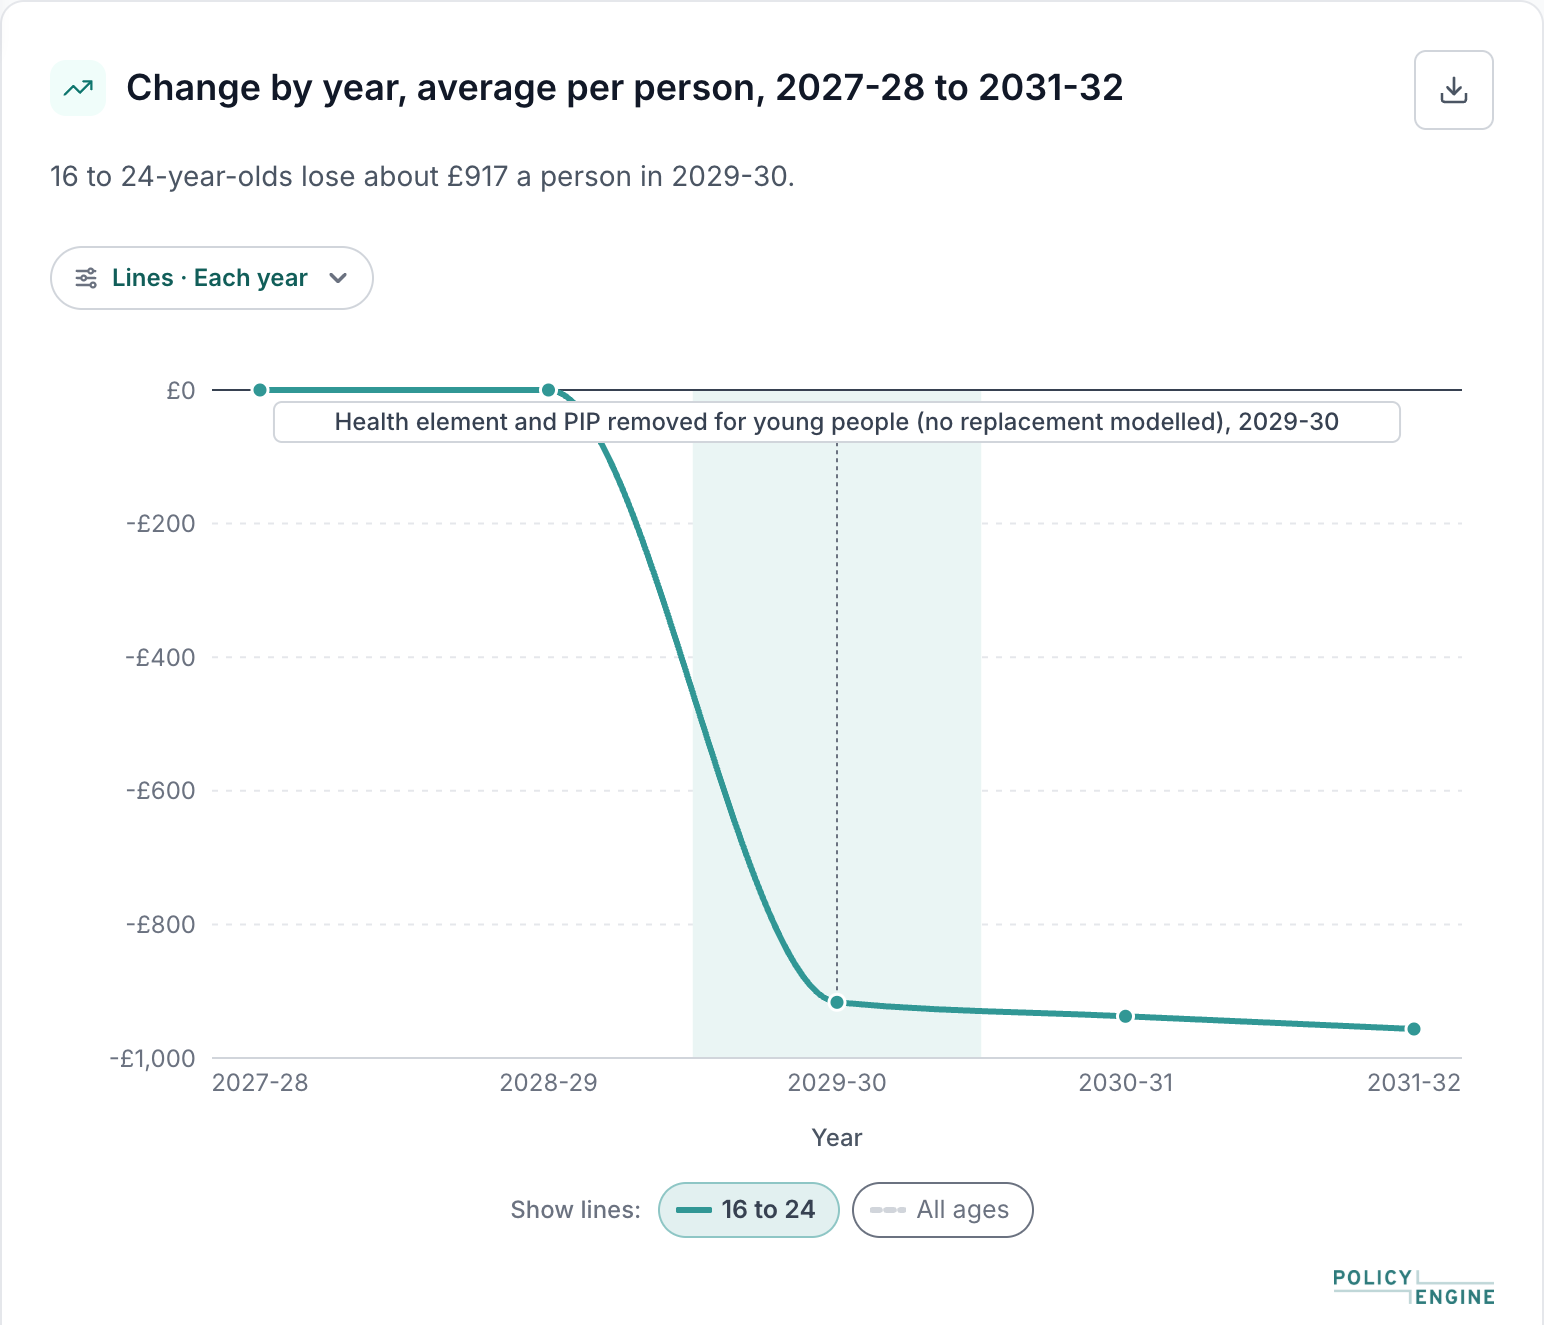
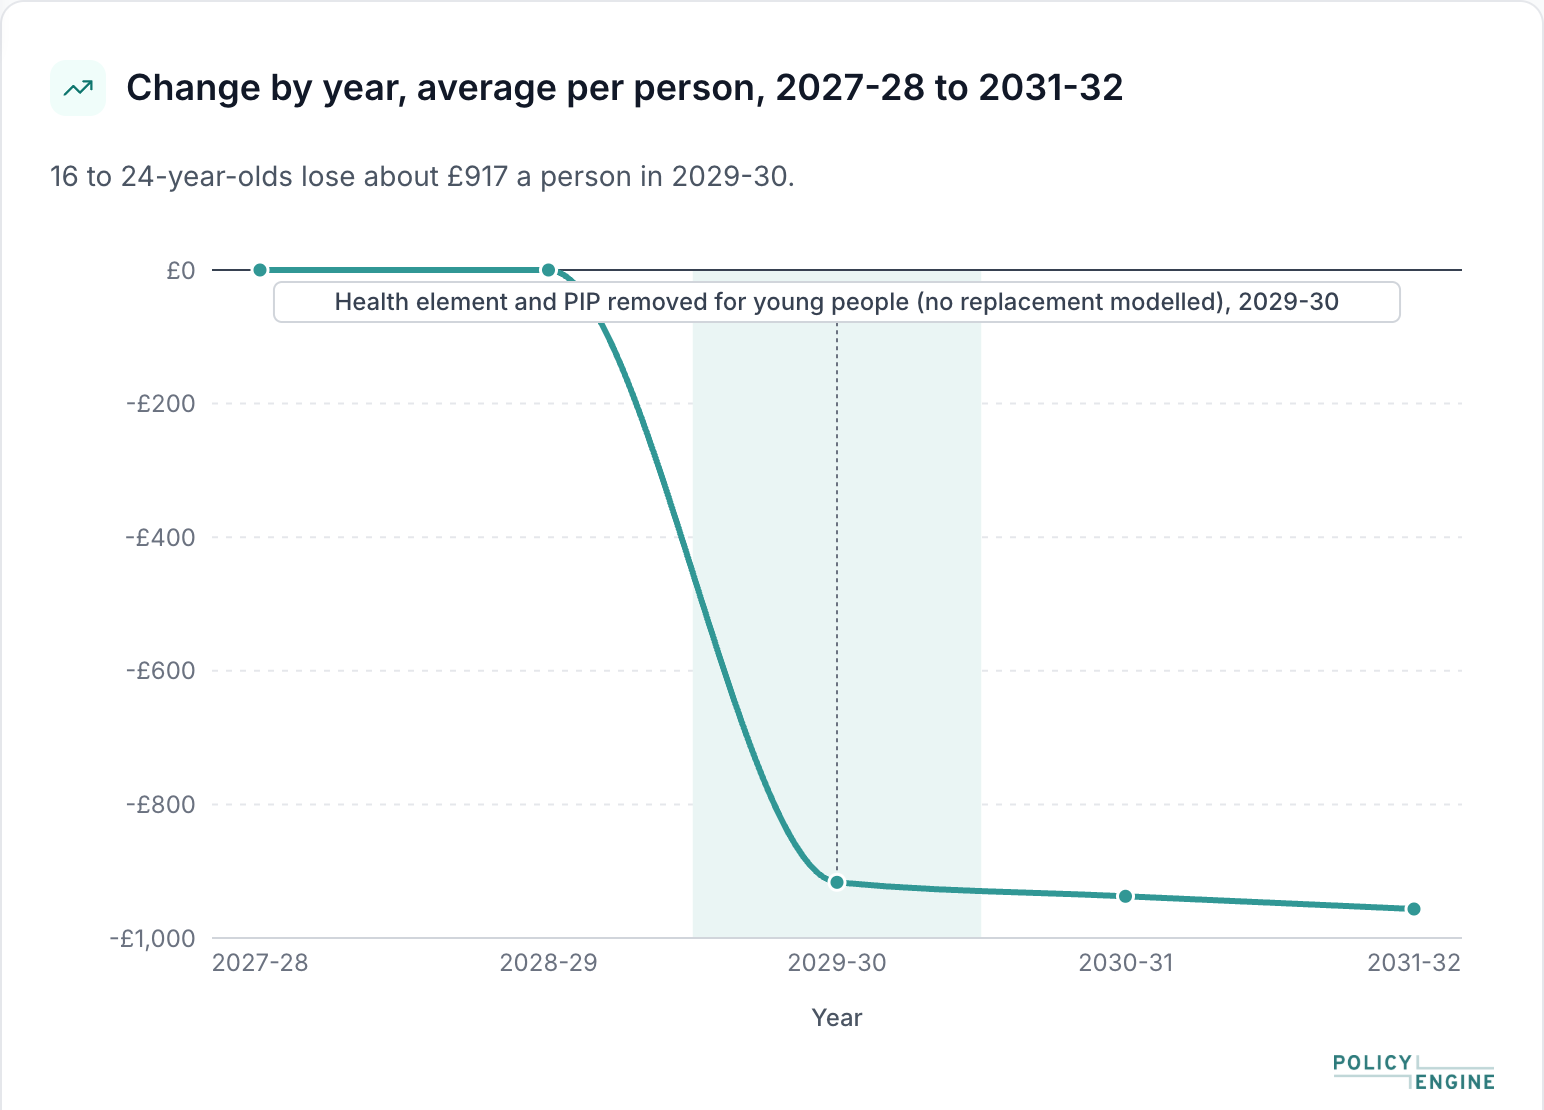
UK 2026-11-25: María's review (Ofgem's cap, the review's replacement support, cropped chart)

diff --git a/editions/2026-11-25-uk.html b/editions/2026-11-25-uk.html
@@ -17,7 +17,7 @@
 </style>
 </head>
 <body style="margin:0;padding:0;background-color:#0F1419;font-family:'Inter', -apple-system, BlinkMacSystemFont, 'Segoe UI', Arial, sans-serif;">
-<div style="display:none;max-height:0;overflow:hidden;">Our estimates of the Milburn review&rsquo;s proposals for young people&rsquo;s benefits, and of the forecast rise in the energy price cap.</div>
+<div style="display:none;max-height:0;overflow:hidden;">Our estimates of the Milburn review&rsquo;s proposals for young people&rsquo;s benefits, and of Ofgem&rsquo;s January energy price cap.</div>
 <table width="100%" cellpadding="0" cellspacing="0" style="background-color:#0F1419;"><tr><td align="center" class="outer-pad" style="padding:32px 12px;">
   <table class="container" width="600" cellpadding="0" cellspacing="0" style="max-width:600px;width:100%;">
 
@@ -31,23 +31,23 @@
           <tr><td class="hero-pad" style="background: linear-gradient(165deg, #1D4044 0%, #234E52 40%, #285E61 100%); background-color:#234E52; border-radius:16px 16px 0 0; padding:48px 40px 40px 40px;">
             <div style="width:48px;height:3px;background:linear-gradient(90deg, #4FD1C5 0%, #81E6D9 100%);margin-bottom:24px;border-radius:2px;"></div>
             <h1 class="hero-title" style="margin:0 0 20px 0;font-size:28px;font-weight:800;color:#FFFFFF;line-height:1.15;letter-spacing:-0.02em;">The Milburn review and January energy bills</h1>
-            <p style="margin:0;font-size:15px;line-height:1.65;color:#B2F5EA;font-weight:400;">Our estimates of the Milburn review&rsquo;s proposals for young people&rsquo;s benefits, and of the forecast rise in the energy price cap.</p>
+            <p style="margin:0;font-size:15px;line-height:1.65;color:#B2F5EA;font-weight:400;">Our estimates of the Milburn review&rsquo;s proposals for young people&rsquo;s benefits, and of Ofgem&rsquo;s January energy price cap.</p>
           </td></tr>
 
           <tr><td class="text-pad" style="background-color:#FFFFFF;padding:28px 40px 16px 40px;">
                 <p style="margin:0 0 6px 0;font-size:10px;font-weight:700;letter-spacing:0.15em;text-transform:uppercase;color:#319795;">Briefing &middot; 22 November</p>
                 <p style="margin:0 0 12px 0;font-size:16px;font-weight:700;color:#1D4044;">The Milburn review and young people&rsquo;s benefits</p>
-                <p style="margin:0 0 16px 0;font-size:13px;line-height:1.6;color:#475569;">The review proposes ending the Universal Credit (UC) health element and the Personal Independence Payment (PIP) for young people. We estimate ending the two from April 2029, before any replacement support. Our dashboard models five of its proposals.</p>
+                <p style="margin:0 0 16px 0;font-size:13px;line-height:1.6;color:#475569;">The review proposes ending the Universal Credit (UC) health element for under-25s and replacing the Personal Independence Payment (PIP) for young people with three new forms of support. We estimate ending the two from April 2029, without the replacement support, the Youth Allowance, the work allowance or the rise in employment the review expects. Our dashboard models five of its proposals.</p>
                 <p style="margin:0 0 8px 0;font-size:11px;font-weight:700;letter-spacing:0.1em;text-transform:uppercase;color:#319795;">What we find (static estimates)</p>
                 <table width="100%" cellpadding="0" cellspacing="0">
-                  <tr><td width="16" valign="top" style="font-size:12px;line-height:1.6;color:#319795;">&bull;</td><td style="font-size:12px;line-height:1.6;color:#475569;padding:0 0 6px 0;">Ending the UC health element and PIP for young people would cut spending by <strong style="color:#1D4044;">&pound;4.4 billion</strong> in 2029-30, or &pound;2.6 billion if existing claimants moved only when reassessed.</td></tr>
+                  <tr><td width="16" valign="top" style="font-size:12px;line-height:1.6;color:#319795;">&bull;</td><td style="font-size:12px;line-height:1.6;color:#475569;padding:0 0 6px 0;">Ending the UC health element and PIP for young people would save <strong style="color:#1D4044;">&pound;4.4 billion</strong> in 2029-30, or &pound;2.6 billion if existing claimants moved only when reassessed.</td></tr>
                   <tr><td width="16" valign="top" style="font-size:12px;line-height:1.6;color:#319795;">&bull;</td><td style="font-size:12px;line-height:1.6;color:#475569;padding:0 0 6px 0;"><strong style="color:#1D4044;">609,000</strong> people aged 16 to 24 (8.1%) would live in households whose income falls.</td></tr>
                   <tr><td width="16" valign="top" style="font-size:12px;line-height:1.6;color:#319795;">&bull;</td><td style="font-size:12px;line-height:1.6;color:#475569;padding:0 0 6px 0;"><strong style="color:#1D4044;">21.0%</strong> of young people we estimate are NEET (not in education, employment or training) would see household income fall, against 6.2% of other 16 to 24-year-olds.</td></tr>
                   <tr><td width="16" valign="top" style="font-size:12px;line-height:1.6;color:#319795;">&bull;</td><td style="font-size:12px;line-height:1.6;color:#475569;"><strong style="color:#1D4044;">291,000</strong> more people of all ages would be in absolute poverty before housing costs (+0.4 percentage points).</td></tr>
                 </table>
           </td></tr>
           <tr><td class="text-pad" style="background-color:#FFFFFF;padding:8px 40px 0 40px;">
-                <a href="https://www.policyengine.org/uk/milburn-review"><img src="https://raw.githubusercontent.com/PolicyEngine/newsletters/1607451613849c3cd9d4d787355778b71e7d545c/assets/images/uk-milburn-review-change-by-year.png" width="520" alt="Line chart from the Milburn review dashboard of the average change in household income per person, 2027-28 to 2031-32: no change until 2028-29, then a fall to about minus &pound;917 for 16 to 24-year-olds in 2029-30" style="width:100%;max-width:520px;height:auto;display:block;margin:0 0 16px 0;border-radius:8px;border:1px solid #E2E8F0;"></a>
+                <a href="https://www.policyengine.org/uk/milburn-review"><img src="https://raw.githubusercontent.com/PolicyEngine/newsletters/1607451613849c3cd9d4d787355778b71e7d545c/assets/images/uk-milburn-review-change-by-year.png" width="520" alt="Line chart from the Milburn review dashboard of the average change in household income per person, 2027-28 to 2031-32: no change until 2028-29, then a fall to about minus &pound;917 for 16 to 24-year-olds in 2029-30" style="width:100%;max-width:520px;height:auto;display:block;margin:0 0 6px 0;border-radius:8px;border:1px solid #E2E8F0;"></a><p style="margin:0 0 16px 0;font-size:11px;line-height:1.5;color:#64748B;">The average is over everyone aged 16 to 24, most of whom see no change.</p>
           </td></tr>
           <tr><td class="text-pad" style="background-color:#FFFFFF;padding:0 40px 28px 40px;border-bottom:1px solid #E2E8F0;">
                 <div style="text-align:center;">
@@ -57,17 +57,17 @@
           </td></tr>
 
           <tr><td class="section-pad" style="background-color:#FFFFFF;padding:28px 40px;border-bottom:1px solid #E2E8F0;">
-                <p style="margin:0 0 6px 0;font-size:10px;font-weight:700;letter-spacing:0.15em;text-transform:uppercase;color:#319795;">Energy bills &middot; 19 November</p>
-                <p style="margin:0 0 12px 0;font-size:16px;font-weight:700;color:#1D4044;">Cornwall Insight&rsquo;s January price cap forecast</p>
-                <p style="margin:0 0 16px 0;font-size:13px;line-height:1.6;color:#475569;">The consultancy Cornwall Insight forecasts that the energy price cap will rise by 26% in January, to &pound;2,166 a year for a household with typical use. We estimate what that would mean for households at different incomes.</p>
+                <p style="margin:0 0 6px 0;font-size:10px;font-weight:700;letter-spacing:0.15em;text-transform:uppercase;color:#319795;">Energy bills &middot; 25 November</p>
+                <p style="margin:0 0 12px 0;font-size:16px;font-weight:700;color:#1D4044;">Ofgem&rsquo;s January energy price cap</p>
+                <p style="margin:0 0 16px 0;font-size:13px;line-height:1.6;color:#475569;">On 25 November Ofgem announced that the energy price cap will rise by 26% in January, to &pound;2,166 a year for a household with typical use, the level Cornwall Insight forecast. We estimate what it means for households at different incomes, holding energy use fixed.</p>
                 <p style="margin:0 0 8px 0;font-size:11px;font-weight:700;letter-spacing:0.1em;text-transform:uppercase;color:#319795;">What we find</p>
                 <table width="100%" cellpadding="0" cellspacing="0" style="margin:0 0 16px 0;">
-                  <tr><td width="16" valign="top" style="font-size:12px;line-height:1.6;color:#319795;">&bull;</td><td style="font-size:12px;line-height:1.6;color:#475569;padding:0 0 6px 0;">The average bill in Great Britain would rise by <strong style="color:#1D4044;">&pound;415 a year</strong>: &pound;367 in the lowest-income tenth, &pound;522 in the highest.</td></tr>
-                  <tr><td width="16" valign="top" style="font-size:12px;line-height:1.6;color:#319795;">&bull;</td><td style="font-size:12px;line-height:1.6;color:#475569;padding:0 0 6px 0;">The lowest-income tenth would spend <strong style="color:#1D4044;">11.5%</strong> of income on energy, up from 9.3%.</td></tr>
-                  <tr><td width="16" valign="top" style="font-size:12px;line-height:1.6;color:#319795;">&bull;</td><td style="font-size:12px;line-height:1.6;color:#475569;"><strong style="color:#1D4044;">3.6 million</strong> households would spend over a tenth of their income on energy, up from 2.2 million.</td></tr>
+                  <tr><td width="16" valign="top" style="font-size:12px;line-height:1.6;color:#319795;">&bull;</td><td style="font-size:12px;line-height:1.6;color:#475569;padding:0 0 6px 0;">The average bill in Great Britain would rise by <strong style="color:#1D4044;">&pound;415 a year</strong>: &pound;374 in the lowest-income tenth, &pound;523 in the highest.</td></tr>
+                  <tr><td width="16" valign="top" style="font-size:12px;line-height:1.6;color:#319795;">&bull;</td><td style="font-size:12px;line-height:1.6;color:#475569;padding:0 0 6px 0;">The lowest-income tenth would spend <strong style="color:#1D4044;">11.6%</strong> of income on energy, up from 9.4%.</td></tr>
+                  <tr><td width="16" valign="top" style="font-size:12px;line-height:1.6;color:#319795;">&bull;</td><td style="font-size:12px;line-height:1.6;color:#475569;"><strong style="color:#1D4044;">3.6 million</strong> households would spend over a tenth of their income on energy at January rates for a full year, up from 2.3 million.</td></tr>
                 </table>
-                <a href="https://www.policyengine.org/uk/research/uk-energy-price-cap-january-2027-forecast"><img src="https://raw.githubusercontent.com/PolicyEngine/newsletters/c6f0e7ded5034ff8bcac535112345a3e0823bf0a/assets/images/uk-energy-bill-change-by-decile.png" width="520" alt="Bar chart of the change in the average household energy bill by income decile in Great Britain, from October to December 2026 rates to Cornwall Insight&rsquo;s January to March 2027 forecast: from &pound;367 a year in the lowest decile to &pound;522 in the highest, and &pound;415 across all households" style="width:100%;max-width:520px;height:auto;display:block;border-radius:8px;border:1px solid #E2E8F0;margin:0 0 20px 0;"></a>
-                <div style="text-align:center;"><a href="https://www.policyengine.org/uk/research/uk-energy-price-cap-january-2027-forecast" style="display:inline-block;padding:12px 24px;background-color:#319795;border:2px solid #319795;color:#FFFFFF;text-decoration:none;font-weight:600;font-size:14px;border-radius:6px;">Read the analysis &rarr;</a></div>
+                <a href="https://www.policyengine.org/uk/research/uk-energy-price-cap-january-2027"><img src="https://raw.githubusercontent.com/PolicyEngine/newsletters/c6f0e7ded5034ff8bcac535112345a3e0823bf0a/assets/images/uk-energy-bill-change-by-decile.png" width="520" alt="Bar chart of the change in the average household energy bill by income decile in Great Britain, from Ofgem&rsquo;s October to December 2026 rates to its January to March 2027 rates: from &pound;374 a year in the lowest decile to &pound;523 in the highest, and &pound;415 across all households" style="width:100%;max-width:520px;height:auto;display:block;border-radius:8px;border:1px solid #E2E8F0;margin:0 0 20px 0;"></a>
+                <div style="text-align:center;"><a href="https://www.policyengine.org/uk/research/uk-energy-price-cap-january-2027" style="display:inline-block;padding:12px 24px;background-color:#319795;border:2px solid #319795;color:#FFFFFF;text-decoration:none;font-weight:600;font-size:14px;border-radius:6px;">Read the analysis &rarr;</a></div>
           </td></tr>
 
           <tr><td class="section-pad" style="background-color:#FFFFFF;padding:32px 40px;border-radius:0 0 16px 16px;">
